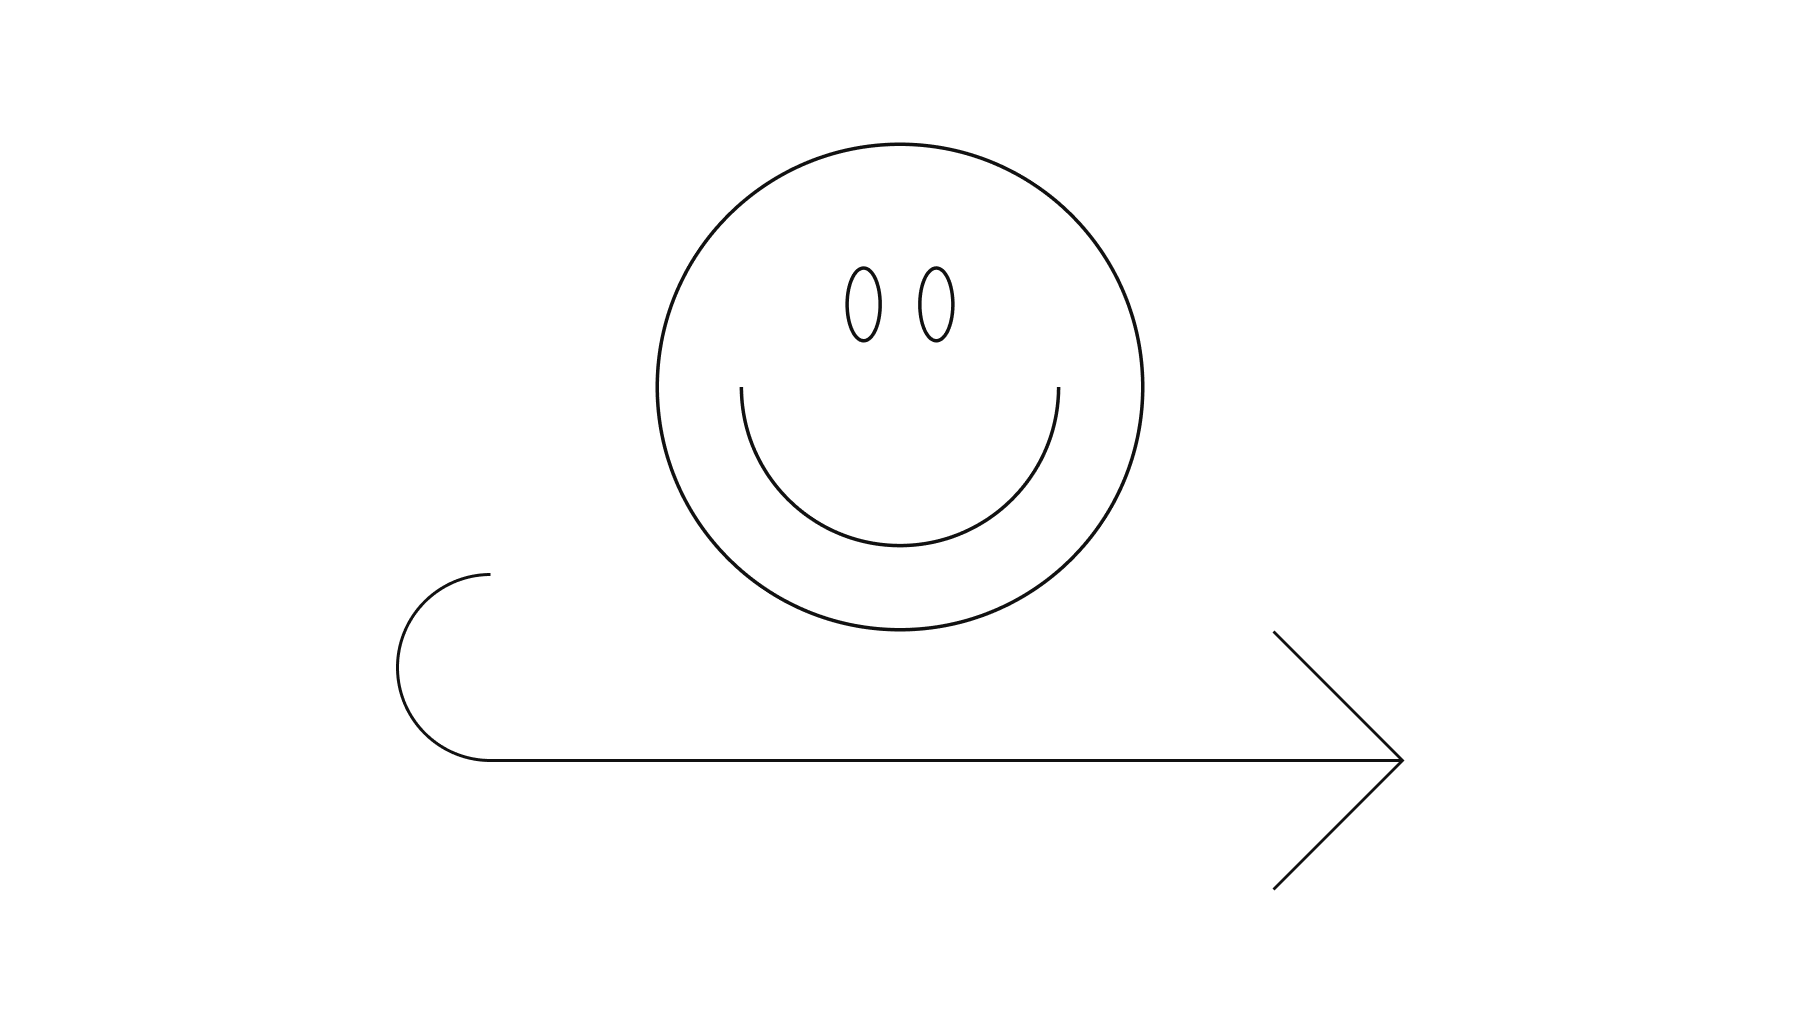
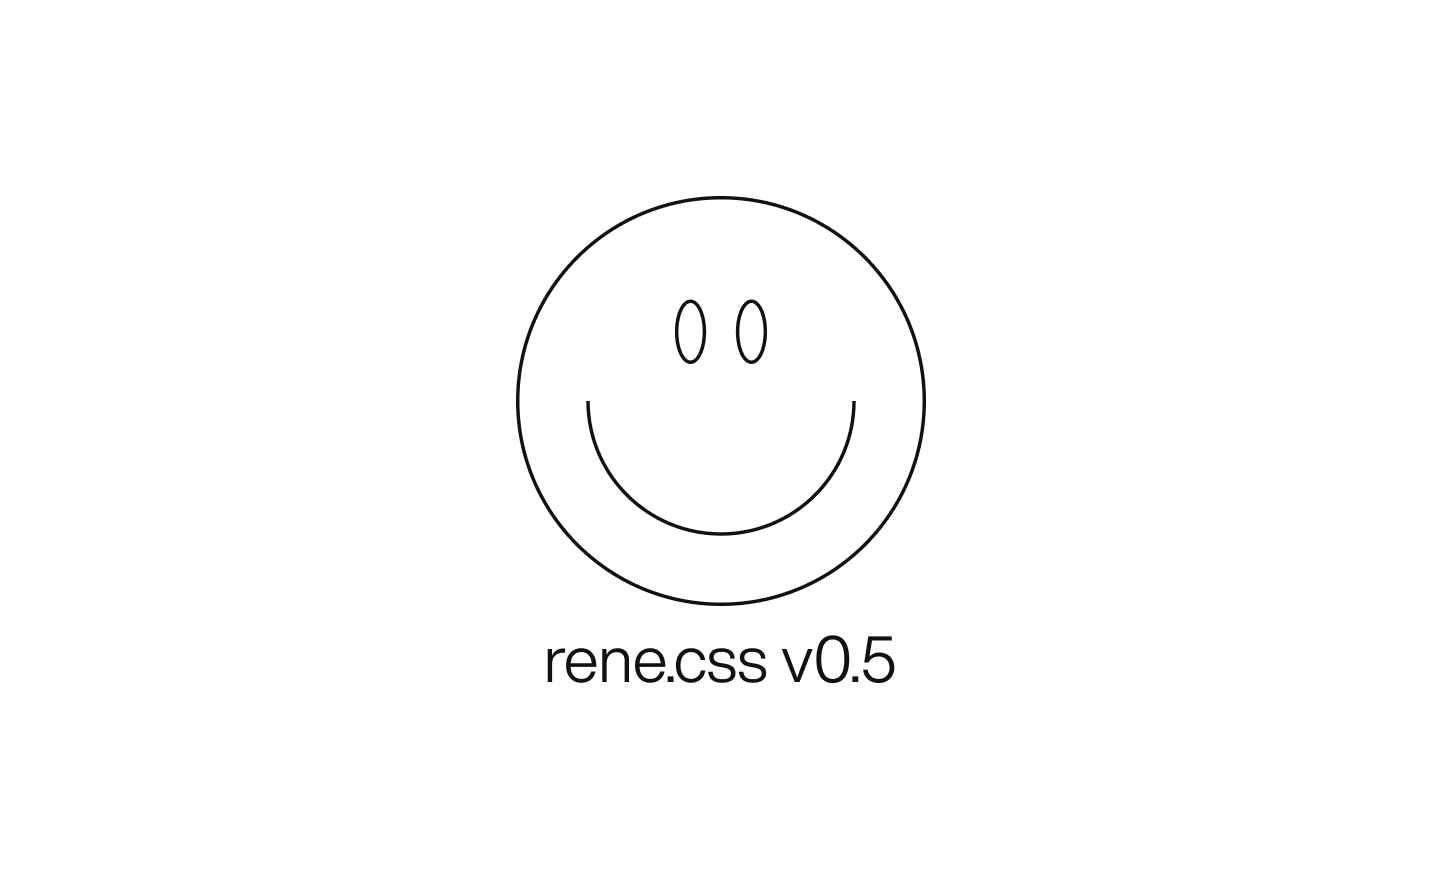
Improve site layout, typography, and metadata
- Added gap-xl class to page divs across multiple HTML files
- Updated typography CSS with improved heading margins
- Removed row-gap from layout.css
- Enhanced social media metadata with Twitter card and absolute image URLs
- Updated some h6 tags to p tags in index.html
- Added padding to reasonable.html body
- Updated rene.css.png image

diff --git a/index.html b/index.html
@@ -11,7 +11,9 @@
     content="design, intention, meaning, rené, system, styling, clean, simple, lightweight, interfaces">
   <meta property="og:title" content="rené">
   <meta name="og:description" content="design for intention and meaning">
-  <meta property="og:image" content="./images/rene.css.png">
+  <meta property="og:image" content="https://renecss.org/images/rene.css.png">
+  <meta name="twitter:image" content="https://renecss.org/images/rene.css.png">
+  <meta name="twitter:card" content="summary_large_image" />
   <meta property="og:url" content="https://rene.css">
   <meta property="og:type" content="website">
   <link rel="icon" href="./images/favicon-light.png">
@@ -25,7 +27,7 @@
 <body>
   <rnbw-header></rnbw-header>
   <section class="box justify-stretch column align-center">
-    <div class="page">
+    <div class="page gap-xl">
 
 
       <div class="column gap-xl align-center"><svg-icon src="images/rene-logo.svg"
@@ -42,7 +44,7 @@
         </h4>
       </div>
     </div>
-    <div class="page">
+    <div class="page gap-xl">
       <div class="row gap-m">
         <a href="getting_started"
           class="animate hover-up ease-in transition column radius-m padding-xl box gap-l background-critical"
@@ -50,7 +52,7 @@
           <div class="box">
             <svg-icon src="./images/arrow-right.svg"></svg-icon>
           </div>
-          <h6>get started</h6>
+          <p>get started</p>
         </a>
         <a href="styleguide"
           class="animate hover-up ease-in transition column background-positive radius-m padding-xl box gap-l"
@@ -60,14 +62,14 @@
               <svg-icon src="./images/shapes.svg"></svg-icon>
             </div>
           </div>
-          <h6>styleguide</h6>
+          <p>styleguide</p>
         </a>
         <a class="animate hover-up ease-in transition column radius-m border padding-xl box-xs gap-l"
           href="https://github.com/rnbwdev/rene.css">
           <div class="box">
             <svg-icon src="./images/code-brackets.svg"></svg-icon>
           </div>
-          <h6>github ↗</h6>
+          <p>github ↗</p>
         </a>
       </div>
     </div>

diff --git a/styleguide.html b/styleguide.html
@@ -36,7 +36,7 @@
 
 
 
-                <div class="page">
+                <div class="page gap-xl">
                     <div>
                         <h1 id="styleguide">styleguide</h1>
                     </div>
@@ -50,7 +50,7 @@
 
 
 
-                <div class="page">
+                <div class="page gap-xl">
                     <div>
                         <h2 id="typography">typography</h2>
                         <div class="row gap-xl">
@@ -1174,7 +1174,7 @@ line-height: 0.95;
                     </div>
                 </div>
 
-                <div class="page">
+                <div class="page gap-xl">
                     <h2 id="media">media</h2>
                     <div class="gap-xl">
                         <svg-icon src="./rene.svg" class="icon-xs" data-clipboard-text=".icon-xs"></svg-icon>
@@ -1185,7 +1185,7 @@ line-height: 0.95;
                         <svg-icon src="./rene.svg" class="icon-xl" data-clipboard-text=".icon-xl"></svg-icon>
                     </div>
                 </div>
-                <div class="page">
+                <div class="page gap-xl">
                     <h2 id="motion">animation</h2>
                     <div class="gap-xl row">
                         <div class="box">

diff --git a/getting_started.html b/getting_started.html
@@ -31,7 +31,7 @@
         </div>
         <div class="view column align-center">
             <div class="box align-center column view">
-                <div class="page">
+                <div class="page gap-xl">
                     <div>
                         <h1 id="gettingstarted">get started </br>with rené
                         </h1>
@@ -45,7 +45,7 @@
                     </p>
                 </div>
 
-<div class="page">
+<div class="page gap-xl">
     <h2>vision</h2>
     <div class="row gap-xl">
         <div class="box">
@@ -120,7 +120,7 @@
     </div>
 </div>
 
-                <div class="page">
+                <div class="page gap-xl">
                     <h2 id="installation">installation</h2>
                     <h5>install with NPM</h5>
                     <div class="row gap-xl">
@@ -227,7 +227,7 @@
 
 
 
-                <div class="page">
+                <div class="page gap-xl">
                     <h2 id="customization">customization</h2>
                     <div class="row gap-xl">
                         <div class="box">

diff --git a/src/layout.css b/src/layout.css
@@ -148,7 +148,6 @@ hr {
     width: 100%;
     max-width: 1140px;
     padding: calc(var(--size-base) * 10);
-    row-gap: calc(var(--size-base) * 10);
 }
 
 .hidden { display: none; }
@@ -163,7 +162,6 @@ hr {
 @media (max-width: 768px) {
     .page {
         padding: calc(var(--size-base) * 6);
-        row-gap: calc(var(--size-base) * 6);
     }
 
     .hidden-on-mobile { display: none; }

diff --git a/reasonable.html b/reasonable.html
@@ -21,7 +21,7 @@
     <script defer data-domain="rnbw.design" src="https://plausible.io/js/script.js"></script>
 </head>
 
-<body>
+<body class="padding-xl">
 	<main>
 		<h1>Reasonable.html</h1>
 		<p>Reasonable.html is a single HTML document that contains a reasonably complete set of example HTML elements.

diff --git a/src/typography.css b/src/typography.css
@@ -10,6 +10,17 @@ h4,
 h5,
 h6 {
     font-family: var(--font-primary);
+    margin-top: 2rem;
+    margin-bottom: 0.5rem;
+}
+
+h1:first-child,
+h2:first-child,
+h3:first-child,
+h4:first-child,
+h5:first-child,
+h6:first-child {
+    margin-top: 0;
 }
 
 h1 {
